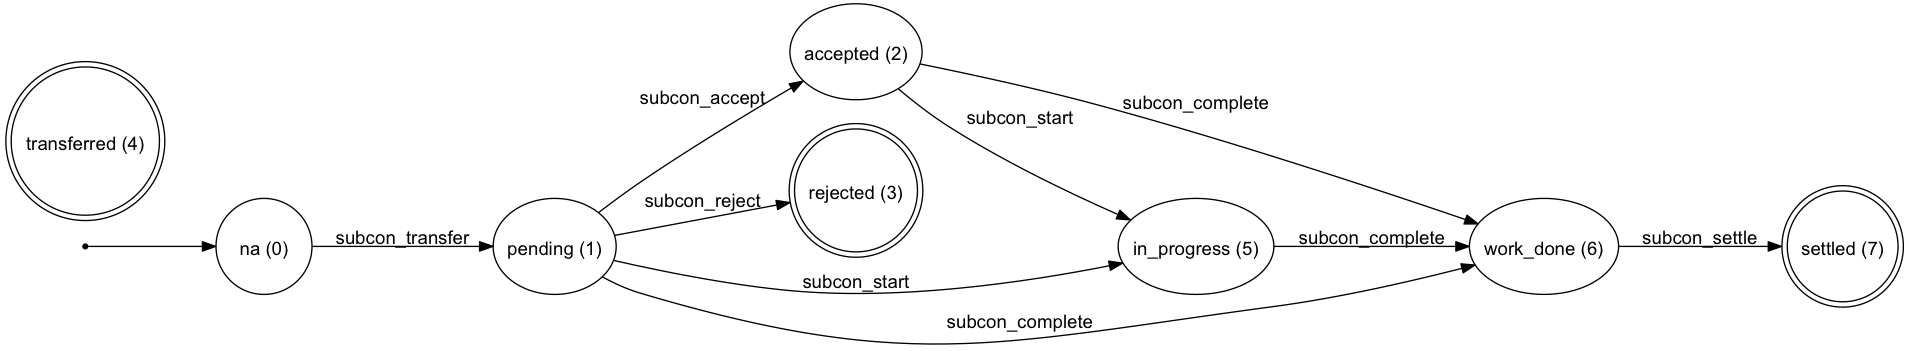
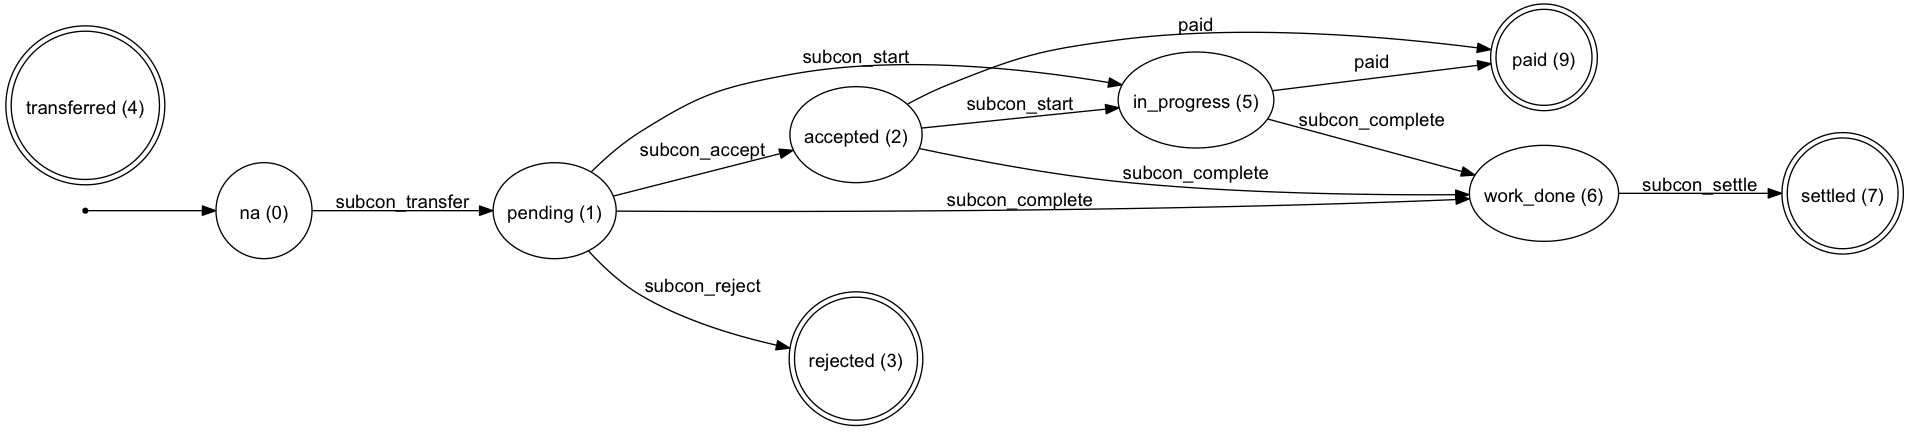
closed #23 (final touches)

diff --git a/spec/requests/service_call_pages_spec.rb b/spec/requests/service_call_pages_spec.rb
@@ -438,8 +438,17 @@ describe "Service Call pages" do
                   should have_selector('table#event_log_in_service_call td', text: I18n.t('service_call_canceled_event.description', user: org_admin_user2.name, org: org2.name))
                 end
 
+                it "subcontractor status  should be canceled" do
+                  should have_selector(subcontractor_status, text: I18n.t('activerecord.state_machines.transferred_service_call.subcontractor_status.states.canceled'))
+                end
+                it "subcontractor sc  should be canceled" do
+                  in_browser(:org2) do
+                    should have_selector(status, text: I18n.t('activerecord.state_machines.transferred_service_call.status.states.canceled'))
+                  end
 
-                it "subcontractor sc should have a canceled status"
+                end
+
+
               end
 
               describe "subcontractor completes the service call" do

diff --git a/app/models/transferred_service_call.rb b/app/models/transferred_service_call.rb
@@ -102,6 +102,7 @@ class TransferredServiceCall < ServiceCall
     state :in_progress, value: SUBCON_STATUS_IN_PROGRESS
     state :work_done, value: SUBCON_STATUS_WORK_DONE
     state :settled, value: SUBCON_STATUS_SETTLED
+    state :paid, value: SUBCON_STATUS_PAID
 
     event :subcon_transfer do
       transition [:na] => :pending
@@ -123,6 +124,9 @@ class TransferredServiceCall < ServiceCall
       transition [:work_done] => :settled
     end
 
+    event :paid do
+      transition [:accepted, :in_progress] => :paid
+    end
   end
   private
   def provider_is_not_a_member

diff --git a/app/models/service_call.rb b/app/models/service_call.rb
@@ -173,7 +173,7 @@ class ServiceCall < ActiveRecord::Base
     end
 
     event :paid do
-      transition :pending => :paid
+      transition [:pending, :overdue] => :paid
     end
 
     event :overdue do
